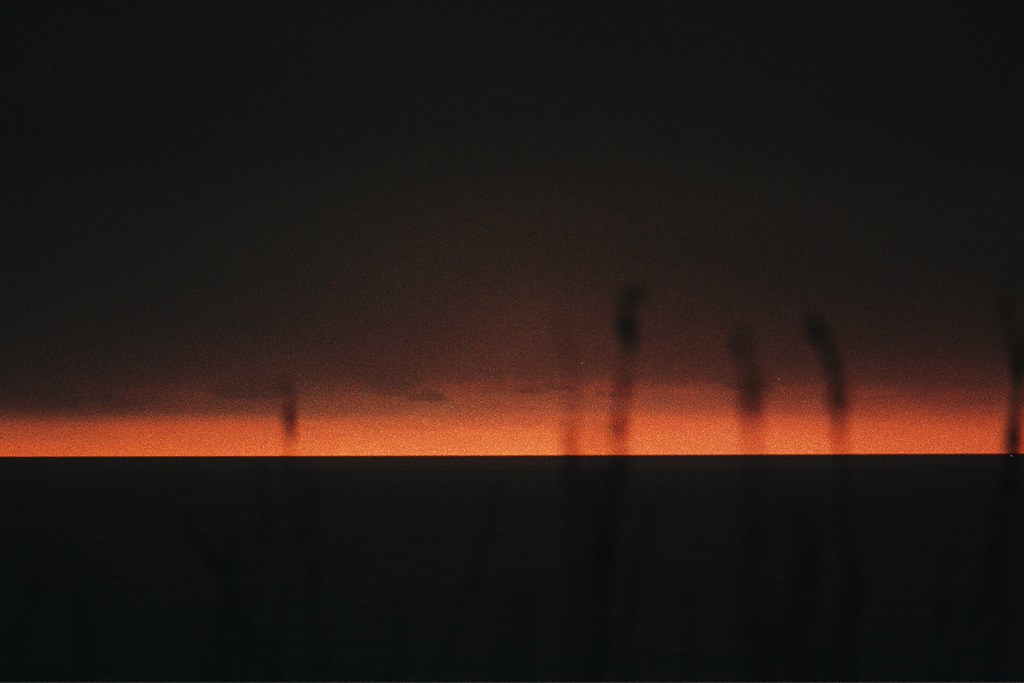
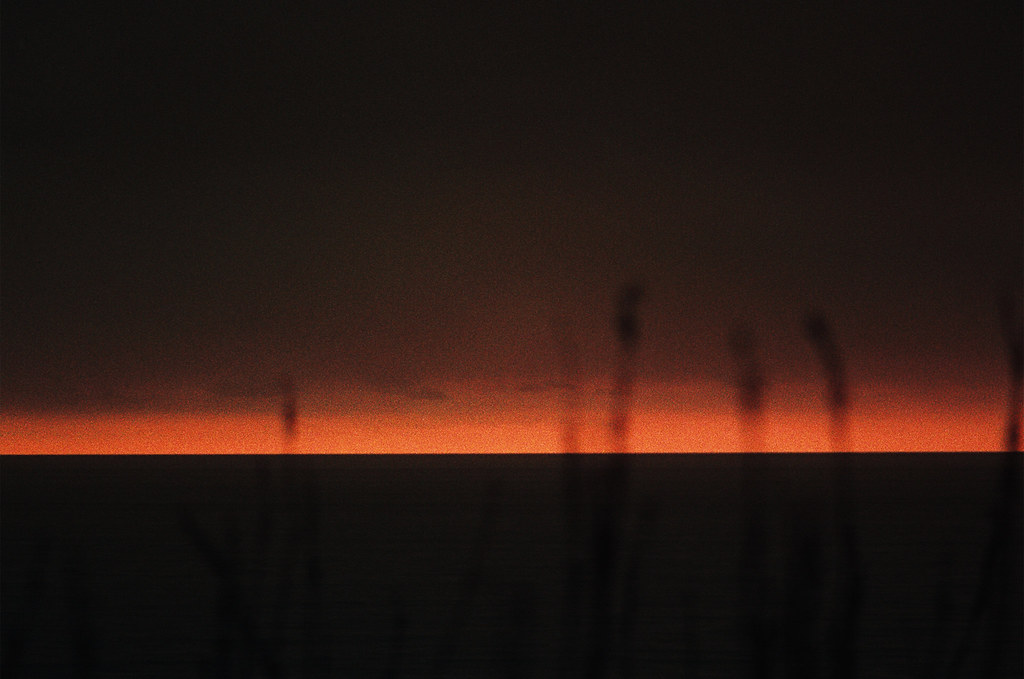
Overig: the new eclipse edit as background, kept when no feed carries it; the eclipse added to the photos
Claude-Session: https://claude.ai/code/session_0178s3V37m7FRo6P8dpeAkjW

diff --git a/index.html b/index.html
@@ -28,7 +28,7 @@
 <link rel="stylesheet" href="https://fonts.googleapis.com/css2?family=Roboto:wght@400;500&display=swap">
 <link rel="preload" href="assets/fonts/Geist-Regular.woff2" as="font" type="font/woff2" crossorigin>
 <link rel="preload" href="assets/fonts/Geist-Medium.woff2" as="font" type="font/woff2" crossorigin>
-<link rel="stylesheet" href="css/style.css?v=20261108101749">
+<link rel="stylesheet" href="css/style.css?v=20261108114558">
 </head>
 <body>
 
@@ -72,7 +72,7 @@
       <div class="layer"    data-key="ritcs"       data-clips="ritcs"></div>
       <div class="layer"    data-key="videografie" data-clips="videografie"></div>
       <div class="layer"    data-key="ten-anker"   data-clips="ritcs" data-only="tenanker"></div>
-      <div class="layer"    data-key="overig"      data-img="assets/hero/overig.jpg"      data-video=""></div>
+      <div class="layer"    data-key="overig"      data-img="assets/hero/overig.jpg?v=2"      data-video=""></div>
     </div>
     <div class="hero-shade" aria-hidden="true"></div>
     <div class="hero-doors" id="doors">
@@ -239,10 +239,10 @@
   </div>
 </dialog>
 
-<script src="js/i18n.js?v=20261108101749"></script>
-<script src="assets/clips/clips.js?v=20261108101749"></script>
-<script src="js/data.js?v=20261108101749"></script>
-<script src="js/music.js?v=20261108101749"></script>
-<script src="js/main.js?v=20261108101749"></script>
+<script src="js/i18n.js?v=20261108114558"></script>
+<script src="assets/clips/clips.js?v=20261108114558"></script>
+<script src="js/data.js?v=20261108114558"></script>
+<script src="js/music.js?v=20261108114558"></script>
+<script src="js/main.js?v=20261108114558"></script>
 </body>
 </html>

diff --git a/js/main.js b/js/main.js
@@ -799,7 +799,7 @@
     // the newest photo is the background behind OVERIG
     const ov = document.querySelector('.layer[data-key="overig"] img');
     const bg = byId.get(OVERIG_BG) || [...byId.values()].sort((a, b) => (b.date > a.date) - (b.date < a.date))[0];
-    if(ov && bg && ov.dataset.ph !== bg.id){ ov.dataset.ph = bg.id; const im = new Image(); im.onload = () => { ov.src = im.src; }; im.src = flickrSize(bg.src, "b"); }
+    if(ov && bg && bg.id === OVERIG_BG && ov.dataset.ph !== bg.id){ ov.dataset.ph = bg.id; const im = new Image(); im.onload = () => { ov.src = im.src; }; im.src = flickrSize(bg.src, "b"); }
     if(document.body.classList.contains("is-work")) renderWork();
   }
   [{album:null, url:`photos_public.gne?id=${FLICKR}`}, ...ALBUMS.map(a => ({album:a.id, url:`photoset.gne?set=${a.id}&nsid=${FLICKR}`}))].forEach((f, k) => {
@@ -808,6 +808,10 @@
     sc.src = `https://www.flickr.com/services/feeds/${f.url}&lang=en-us&format=json&jsoncallback=tnmFlickr${k}`;
     document.head.appendChild(sc);
   });
+  // the eclipse is in no album and no longer among the 20 newest, so no feed carries it: added by hand
+  // (if the photo is replaced on Flickr, its address changes: update the secret after the id here)
+  takeFeed({items:[{media:{m:"https://live.staticflickr.com/65535/55628757102_180d703cce_m.jpg"}, title:"eclipse_overlay",
+    link:`https://www.flickr.com/photos/${FLICKR}/55628757102/`, date_taken:"2026-08-12T00:00:00", description:'width="240" height="159"'}]}, null);
   const phGrid = $("#phGrid");
   let PHV = [];      // the photos the filters leave
   // eager, not lazy: Safari doesn't load lazy images in the later columns of a column layout

diff --git a/crop.html b/crop.html
@@ -89,7 +89,7 @@ kbd{font:12px "Geist";background:#262626;border:1px solid #3a3a3a;padding:1px 5p
     </p>
   </main>
 </div>
-<script src="assets/clips/clips.js?v=20261108101749"></script>
+<script src="assets/clips/clips.js?v=20261108114558"></script>
 <script>
 (() => {
   const $ = s => document.querySelector(s);
